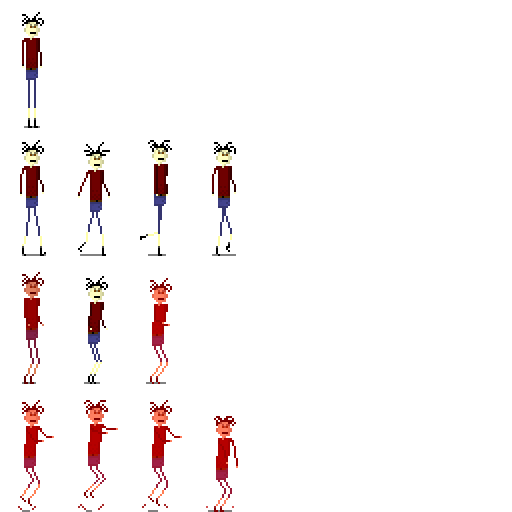
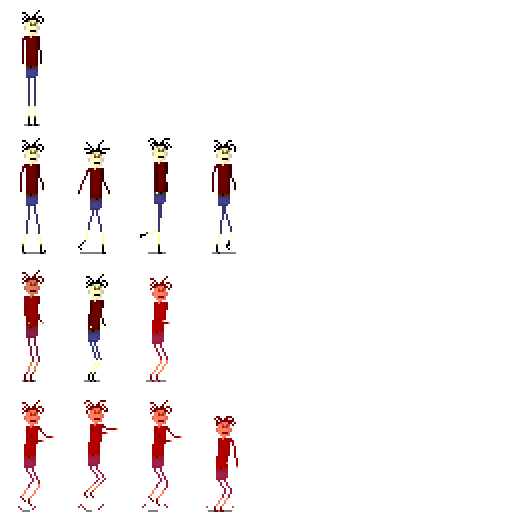
Animated lot range enemy. Bottles spawn. Working on prototyping enemies now.

diff --git a/lot_state.js b/lot_state.js
@@ -30,7 +30,7 @@ var lot_state = {
 	var enemy = game.add.sprite(600, 400, "lot_r_enemy");
 	enemy.anchor.x = 0.5;
 	enemy.animations.add("idle", [0]);
-	var charge_anim = enemy.animations.add("charge", [1], 1, false);
+	var charge_anim = enemy.animations.add("charge", [8, 9, 10, 10], 8, false);
 	charge_anim.onStart.add(
 	    function(enemy){
 		enemy.charging = true;
@@ -42,17 +42,34 @@ var lot_state = {
 		enemy.charging = false;
 	    },
 	    enemy);
-	var throw_anim = enemy.animations.add("throw", [2], 1, false)
+	var throw_anim = enemy.animations.add("throw", [16, 17, 18, 19], 8, false)
 	throw_anim.onStart.add(
 	    function(enemy){
+		var diff_x = enemy.aim.x - enemy.x;
+		var diff_y = enemy.aim.y - enemy.y;
+		var diff_base = Math.abs(diff_x) + Math.abs(diff_y);
+		var x_diff_ratio = diff_x / diff_base;
+		var y_diff_ratio = diff_y / diff_base;
+		var bottle_v = {
+		    x: 256 * x_diff_ratio,
+		    y: 256 * y_diff_ratio
+		}
+		var bottle = game.add.sprite(
+		    enemy.x,
+		    enemy.y + enemy.height / 2,
+		    "bottle");
+		bottle.animations.add("projectile", [0, 1, 2, 3], 8, true);
+		bottle.scale.x = enemy.scale.x;
+		game.physics.enable(bottle);
+		bottle.body.velocity = bottle_v;
 		enemy.attacking = true;
 		//generate projectile
 	    },
 	    enemy);
 	throw_anim.onComplete.add(
 	    function(enemy){
-		enemy.animations.play("idle");
 		enemy.attacking = false;
+		enemy.animations.play("idle");
 	    },
 	    enemy);
 	enemy.detect_range = 64 * 4;
@@ -190,6 +207,15 @@ var lot_state = {
 	    var enemy = this.r_enemies[i];
 	    if (DistanceBetween(this.player, enemy) <= enemy.detect_range && 
 		!(enemy.charging || enemy.attacking)){
+		if (this.player.x < enemy.x){
+		    enemy.scale.x = -1;
+		} else {
+		    enemy.scale.x = 1;
+		}
+		enemy.aim = {
+		    x: this.player.x,
+		    y: this.player.y
+		};
 		enemy.animations.currentAnim.complete();
 		enemy.animations.play("charge");
 	    }
@@ -229,6 +255,7 @@ var lot_state = {
 		enemy.animations.play("idle");
 	    }
 	}
+	remove_indexes = [];
     },
 
     resize: function(){

diff --git a/load_state.js b/load_state.js
@@ -4,6 +4,7 @@ var load_state = {
 	game.load.spritesheet("player", "assets/player.png", 64, 64);
 	game.load.spritesheet("lot_m_enemy", "assets/lot_m_enemy.png", 64, 128);
 	game.load.spritesheet("lot_r_enemy", "assets/lot_r_enemy.png", 64, 128);
+	game.load.spritesheet("bottle", "assets/bottle.png", 32, 32);
 	game.load.audio("lot_music", "assets/parking.mp3");
 	game.load.audio("shop_music", "assets/shopping.mp3");
     },
